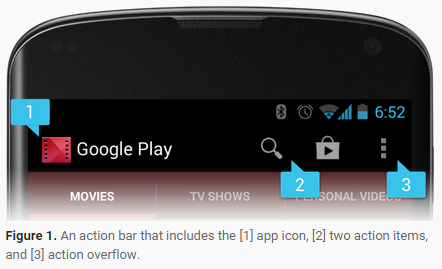
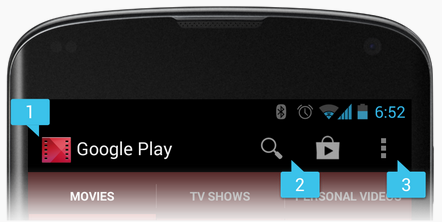
Finished converting code to HTML
Still need to paste it into Ses's template.  Also took the word "Figure
1" from being embedded into an image.

diff --git a/3. Hello, World.html b/3. Hello, World.html
@@ -1,0 +1,220 @@
+<h1>Hello, World!</h1>
+
+<img src="https://raw.githubusercontent.com/TeamNoteworthy/AndroidTutorialSite/master/images/03_Create_New_Project_01.png"/>
+<p>
+	First, start a new project from Android Studio&#39;s welcome screen by going to "Start a new Android Studio project."  Alternatively, you can go to <strong>File->New Project</strong> if you already have a project open.
+</p>
+<img src="https://raw.githubusercontent.com/TeamNoteworthy/AndroidTutorialSite/master/images/03_Create_New_Project_02.png"/>
+<p>
+	Next, you&#39;ll want to name your project and domain.  We&#39;ll call ours <code>AndroidNoteApp</code> and we&#39;ll call our company domain <code>androidnoteapp.gatech.edu</code>.  Normally, this would refer to a website that you own, but we&#39;re just making this up.  It&#39;s significant because the packages follow the naming convention of being in the reverse order of your domain. We had to hit the Edit button on the package name to make it <code>edu.gatech.androidnoteapp</code>.  When you&#39;re done, click <strong>Next</strong>.
+</p>
+<img src="https://raw.githubusercontent.com/TeamNoteworthy/AndroidTutorialSite/master/images/03_Create_New_Project_03.png"/>
+<p>
+	We&#39;re going to target our app to Android 5.0 (Lollipop). In choosing a recent API, you have the tradeoff of having access to the latest features but having a smaller audience on Google Play since there are significant numbers of users who use early platforms. If you want to support most platforms except for certain features, read more <a href=”https://developer.android.com/training/basics/supporting-devices/platforms.html”>here</a>. Click <strong>Next</strong>.
+</p>
+<img src="https://raw.githubusercontent.com/TeamNoteworthy/AndroidTutorialSite/master/images/03_Create_New_Project_04.png"/>
+<p>
+	We&#39;ll insert a blank Activity. Click <strong>Next</strong>.
+</p>
+<img src="https://raw.githubusercontent.com/TeamNoteworthy/AndroidTutorialSite/master/images/03_Create_New_Project_05.png"/>
+<p>
+	Making the Activity Name <code>NoteListActivity</code> should auto-populate the other fields to the above values. This Activity will serve as the list of notes to edit in our final app. Click <strong>Finish</strong>.
+</p>
+<img src="https://raw.githubusercontent.com/TeamNoteworthy/AndroidTutorialSite/master/images/03_Create_New_Project_06.png"/>
+<p>
+	When Android Studio is ready to let you see your project, upon selecting the Design tab under the file <code>activity_note_list.xml</code>, you should see a screen layout with the text “Hello, World!”  In this view, you can drag and drop items onto the <code>Activity</code>&#39;s layout and modify the value of various <code>Views</code>. We&#39;re going to look at the Text tab later so you have an idea of how to work on the manual side of layout design.
+</p>
+
+
+<h3>Adjust Manifest</h3>
+
+<p>
+	Let&#39;s look at the application&#39;s Manifest file. On the Project panel, expand the <code>manifests</code> folder and select <code>AndroidManifest.xml</code>.
+</p>
+<img src="https://raw.githubusercontent.com/TeamNoteworthy/AndroidTutorialSite/master/images/03_Create_New_Project_07.png"/>
+<p>
+	This is the Manifest file for the entire application.  The first line defines that the file uses an XML layout.  The second line defines the namespace with <code>xmlns:android</code> (similar to the C++ concept of namespaces--it prevents variable name collisions).  The value of this attribute points to some line of text that must differentiate the elements inside of it from other elements.  It doesn&#39;t have to be a real website--it doesn&#39;t have to be a website at all, but it typically points to some resource that explains something about the project.  The next line defines the package, which must be unique for all applications on a device, and therefore Google Play requires unique package names across all those applications submitted.
+</p>
+
+<p>
+	A quick tutorial on XML (eXtendable Markup Language).  It is a language that describes data and it consists of tags contained in angle brackets similar to HTML.  For each attribute, there is an identifier to mark the kind of attribute.  Before the first closing angle bracket, there can be an arbitrary number of attributes listed with the syntax <code>&lt;tag attribute0="value0" attribute1="value1"&gt;</code>.  Namespaces prevent collisions of similarly named variables across a large number of XML files that may be used for a similar purpose.  To access a namespace, use this syntax: <code>&lt;tag namespace:attribute="value"&gt;</code>.  All the variables you&#39;ll edit are in the <code>android:</code> namespace as defined in the second line. Tags (once the initial angle bracket has been closed) can be nested so that text or other attributes apply in a nested-tree fashion to the tags which contain them. Learn more about XML<a href=”http://www.w3schools.com/xml/default.asp”>here</a>.
+</p>
+
+<p>
+	The application tag defines the app&#39;s icon, its name, and its activities, among other things.  At least one Activity must have an Intent designating it as the <code>LAUNCHER</code> Activity so Android can put that Activity on the Home screen (you could potentially have multiple launching activities).  Making the intent <code>MAIN</code> indicates that the intent needs no further information in an intent other than that the Activity should  launch (as opposed to being prompted by another Activity).  Read more <a href=”http://developer.android.com/reference/android/content/Intent.html”>here</a>.
+</p>
+
+</p>
+	To jazz up our app a little, we&#39;re going to add a theme: <code>@android:style/Theme.Holo.Light.DarkActionBar</code>.  So within the Activity tag (the particular order of attributes isn&#39;t important, but we&#39;ll insert it in a line after the android:label attribute), add this:
+</p>
+<code>
+	android:theme="@android:style/Theme.Holo.Light.DarkActionBar"
+</code>
+<p>
+	with the tag closing afterwards.
+</p>
+
+<p>
+	The <code>@</code> symbol means that we&#39;re referring to a resource--if it is followed by <code>android:</code>, it&#39;s defined in the Android system&#39;s general resources.  Otherwise, it refers to a resource made in the particular project.
+</p>
+
+<p>
+	So now the manifest should look like this:
+</p>
+<code>
+<p>&lt;?xml version="1.0" encoding="utf-8"?&gt;<br />&lt;manifest xmlns:android="http://schemas.android.com/apk/res/android"<br /> package="edu.gatech.androidnoteapp" &gt;</p>
+<p style="padding-left: 60px;">&lt;application<br /> android:allowBackup="true"<br /> android:icon="@drawable/ic_launcher"<br /> android:label="@string/app_name"<br /> android:theme="@style/AppTheme" &gt;</p>
+<p style="padding-left: 60px;">&lt;activity</p>
+<p style="padding-left: 90px;">android:name=".NoteListActivity"<br /> android:label="@string/app_name"<br /> android:theme="@android:style/Theme.Holo.Light.DarkActionBar"&gt;</p>
+<p style="padding-left: 90px;">&lt;intent-filter&gt;</p>
+<p style="padding-left: 120px;">&lt;action android:name="android.intent.action.MAIN" /&gt;</p>
+<p style="padding-left: 120px;">&lt;category android:name="android.intent.category.LAUNCHER" /&gt;</p>
+<p style="padding-left: 90px;">&lt;/intent-filter&gt;</p>
+<p style="padding-left: 60px;">&lt;/activity&gt;</p>
+<p style="padding-left: 30px;">&lt;/application&gt;</p>
+<p>&lt;/manifest&gt;</p>
+</code>
+
+<h3>Adjust Strings</h3>
+
+<p>
+	Navigate in the Project panel to the folder <code>res/values/strings.xml</code>.
+</p>
+
+<img src="https://raw.githubusercontent.com/TeamNoteworthy/AndroidTutorialSite/master/images/03_Create_New_Project_01.png"/>
+
+<p>
+	The <code>strings.xml</code> file is where Android stores all its string resources.  It&#39;s good practice to keep all text that might possibly be updated in the future here as opposed to in a source file so you can maintain the files separately. We&#39;ll refer to the strings we make here in the code later with a tag such as <code>@string/name_of_string</code>.
+ </p>
+
+<p>
+	Let&#39;s change the title of the Activity as displayed on the screen by changing the <code>title_activity_note_list</code> string to read "Noteworthy".  So the line should read
+</p>
+<code><string name="title_activity_note_list">Noteworthy</string></code>
+<p>
+	Just to prove that this is where Android pulls the “Hello world” string, we&#39;ll add a comma and a smiley face so that it reads:
+</p>
+	<code>Hello, world! :)</code>
+
+<p>
+The final file looks like this.
+</p>
+<code>
+<p>&lt;?xml version="1.0" encoding="utf-8"?&gt;<br />&lt;resources&gt;</p>
+<p style="padding-left: 30px;">&lt;string name="app_name"&gt;Noteworthy&lt;/string&gt;<br /> &lt;string name="hello_world"&gt;Hello, world! :)&lt;/string&gt;<br /> &lt;string name="action_settings"&gt;Settings&lt;/string&gt;</p>
+<p>&lt;/resources&gt;</p>
+</code>
+
+<h3>Adjust Layout</h3>
+<p>
+	Now navigate back to the code that&#39;s already open in a tab: <code>activity_note_list.xml</code>.
+</p>
+
+<img src="https://raw.githubusercontent.com/TeamNoteworthy/AndroidTutorialSite/master/images/03_Create_New_Project_08.png"/>
+
+<p>
+	This file is a description for how the screen will be laid out.  Android separates the layout from the code in order to avoid the clunky GUI code that is found in Java Swing (and to make debugging easier).  Thus, you can use the drag-and-drop editor (the Design tab on the bottom of the pane) to modify the layout, but for now we&#39;ll show you the manual way. However, for the sake of being able to edit layout at runtime, Android does allow for adding and modifying layout in the code.
+</p>
+
+<p>
+	Notice the Design and Text tabs at the bottom of the edit pane, which allow you to switch between the two ways of editing the same file.
+</p>
+
+<p>
+	In the Text editor, at the top you&#39;ll see a few lines describing how the layout is to be padded. Right now, we&#39;re going to modify the <code>layout_width</code> and <code>layout_height</code> attributes of the <code>TextView</code> tag slightly.  Change the value of those attributes from <code>wrap_content</code> to <code>match_parent</code>. While <code>wrap_content</code> tells that UI object to take up as much space as its content needs, <code>match_parent</code> tell the UI object to take up as much space as the parent will allow. With a little adjusting whitespace (which XML ignores), the resulting XML file should look like this.
+</p>
+ 
+<code>
+<p>&lt;RelativeLayout xmlns:android="http://schemas.android.com/apk/res/android"</p>
+<p style="padding-left: 30px;">xmlns:tools="http://schemas.android.com/tools" android:layout_width="match_parent"<br />android:layout_height="match_parent" android:paddingLeft="@dimen/activity_horizontal_margin"<br />android:paddingRight="@dimen/activity_horizontal_margin"<br />android:paddingTop="@dimen/activity_vertical_margin"<br />android:paddingBottom="@dimen/activity_vertical_margin" tools:context=".NoteListActivity"&gt;</p>
+<p style="padding-left: 30px;">&lt;TextView android:text="@string/hello_world"</p>
+<p style="padding-left: 60px;">android:layout_width="match_parent"<br /> android:layout_height="match_parent" /&gt;</p>
+<p>&lt;/RelativeLayout&gt;</p></code>
+
+<p>
+	Read more about layout <a href=”http://developer.android.com/guide/topics/ui/declaring-layout.html”>here</a>.
+</p>
+
+
+<h3>NoteListActivity</h3>
+
+<p>
+	<code>NoteListActivity</code> is found in the Java folder. There&#39;s a series of folders under it for each sub-domain in your company&#39;s domain--that&#39;s just a Java convention.
+</p>
+
+<p>
+	The class imports a few necessary Android clases, then declares the class and extends <code>ActionBarActivity</code>. The base class all Activities need to extend is (*drum roll*) <code>Activity</code>, but there are various specialized Activities for various Activity templates. Since the <code>Theme</code> we are using is not supported by <code>ActionBarActivity</code>, we&#39;re going to downgrade to just <code>Activity</code>.  When that results in an error from not having the class imported, click on the word <code>Activity</code> and press <code>ALT + Enter</code>. A dialog will pop up asking you how to automatically fix the problem. The first way, by importing the class, is what we want, so just press Enter and it will be done. You can also remove the import line for <code>android.support.v7.app.ActionBarActivity</code>.
+</p>
+
+<p>
+	From Android&#39;s <a href=”http://developer.android.com/guide/topics/ui/actionbar.html”>website</a>, this is an <code>ActionBar</code>.
+</p>
+<img src="https://raw.githubusercontent.com/TeamNoteworthy/AndroidTutorialSite/master/images/03_Action_Bar.png"/>
+<p>
+	Nothing too exciting, but we&#39;ll use it later on.
+</p>
+<p>
+	The <code>@Override</code> line is a directive to the compiler to let it know that the next line will override a method previously defined by one of the parent classes.
+</p>
+<p>
+	The <code>onCreate()</code> method responds to what happens when the app first appears. The line
+</p>
+	<code>super.onCreate(savedInstanceState);</code>
+<p>
+	is merely Android&#39;s way of restoring some metadata about the state of the GUI from the last time the app opened. For now, we don&#39;t need to know its details.
+</p>
+
+<p>
+	<code>setContentView(R.layout.activity_note_list)</code> tells the compiler to define how the app looks based on the XML layout as defined by <code>activity_note_list.xml</code> (the resource within the <code>layout</code> folder).
+</p>
+
+<p>
+	The <code>createOptionMenu()</code> method determines how the menu that comes forth from the  button when it is pressed. <code>MenuInflater</code> is an XML parser that parses the XML file found at <code>R.menu.menu_note_list.xml</code>. We&#39;ll go over that in more detail when we edit the <strong>Options</strong> menu.
+</p>
+<p>
+	Finally, <code>onOptionsItemSelected()</code> determines how to react when the user selects one of the options in the <strong>Option</strong> menu.  It usually involves a large switch statement to determine which menu item has been pressed, and then reacts accordingly. Right now, it takes no action--it merely returns true (meaning no errors were incurred) without taking any action.
+</p>
+<p>
+The finished file should look like this:
+</p>
+<code>
+<p>package edu.gatech.androidnoteapp;</p>
+<p>import android.app.Activity;<br />import android.os.Bundle;<br />import android.view.Menu;<br />import android.view.MenuItem;</p>
+<p><br />public class NoteListActivity extends Activity {</p>
+<p style="padding-left: 30px;">@Override<br /> protected void onCreate(Bundle savedInstanceState) {</p>
+<p style="padding-left: 60px;">super.onCreate(savedInstanceState);<br /> setContentView(R.layout.activity_note_list);</p>
+<p style="padding-left: 30px;">}</p>
+<p style="padding-left: 30px;"><br /> @Override<br /> public boolean onCreateOptionsMenu(Menu menu) {</p>
+<p style="padding-left: 60px;">// Inflate the menu; this adds items to the action bar if it is present.<br /> getMenuInflater().inflate(R.menu.menu_note_list, menu);<br /> return true;</p>
+<p style="padding-left: 30px;">}</p>
+<p style="padding-left: 30px;">@Override<br /> public boolean onOptionsItemSelected(MenuItem item) {</p>
+<p style="padding-left: 60px;">// Handle action bar item clicks here. The action bar will<br /> // automatically handle clicks on the Home/Up button, so long<br /> // as you specify a parent activity in AndroidManifest.xml.<br /> int id = item.getItemId();</p>
+<p style="padding-left: 60px;">//noinspection SimplifiableIfStatement<br /> if (id == R.id.action_settings) {</p>
+<p style="padding-left: 90px;">return true;</p>
+<p style="padding-left: 60px;">}</p>
+<p style="padding-left: 60px;">return super.onOptionsItemSelected(item);</p>
+<p style="padding-left: 30px;">}</p>
+<p>}</p>
+</code>
+
+<img src="https://raw.githubusercontent.com/TeamNoteworthy/AndroidTutorialSite/master/images/03_Compile_and_Run.png"/>
+
+<p>
+	Now it&#39;s time to run the program! Select Build (first circled button), and when that&#39;s done (check the progress by the status bar at the bottom, as shown on the next figure), open up your emulator from the AVD (third circled button), and once you&#39;ve gotten the emulator running, hit <strong>Run</strong> (the green triangle or the second circled button). Note that it may take several minutes to get the emulator running depending on the configuration of your computer. Deploying to a real physical device is usually much faster.
+</p>
+
+<img src="https://raw.githubusercontent.com/TeamNoteworthy/AndroidTutorialSite/master/images/03_Compiling.png"/>
+
+<img src="https://raw.githubusercontent.com/TeamNoteworthy/AndroidTutorialSite/master/images/03_Choose_a_Device.png"/>
+
+<p>
+	If you run into this dialog after hitting the Run button, you&#39;re on the right track! Select <strong>OK</strong> after the running emulator is selected. When the install has completed as shown in the next figure, the application will launch automatically.
+</p>
+
+<img src="https://raw.githubusercontent.com/TeamNoteworthy/AndroidTutorialSite/master/images/03_Deployed_Successfully.png"/>
+
+<img src="https://raw.githubusercontent.com/TeamNoteworthy/AndroidTutorialSite/master/images/03_Hello_World_Result.png"/>
+
+<p>
+	Ta-da! We have our first, slightly-modified-from-the-box, Android app! And when you press the <strong>Menu</strong> button on the <code>ActionBar</code>, a dummy menu item pops up. Congratulations!
+</p>

diff --git a/1. Intro.html b/1. Intro.html
@@ -1,4 +1,4 @@
-1. Intro to Android--Dan
+<h1>Intro to Android</h1>
 
 <h3>History</h3>
 
@@ -80,29 +80,50 @@
 	<li><code>onSaveInstanceState()</code> and <code>onRestoreInstanceState()</code> are only for saving the state of the UI, but not persistent data. There are default versions already implemented that you can override.</li>
 </ul>
 
+<img src="https://raw.githubusercontent.com/TeamNoteworthy/AndroidTutorialSite/master/images/01_Life_Cycle_of_Android_App.png"/>
+
 <h3>Miscellaneous Items</h3>
 
 <p>The <code>NotificationManager</code> provides an API so that all apps can have a consistent presentation of notifications.</p>
 
 <p>Regarding buttons at the bottom of an Android screen: newer phones have the following virtual buttons at the bottom of most screens.</p>
-Return (go back to the previous screen)
-Home (return to the Home screen)
-Running Apps (quick application switcher and task manager)
+<ul>
+	<li>Return (go back to the previous screen)</li>
+	<li>Home (return to the Home screen)</li>
+	<li>Running Apps (quick application switcher and task manager)</li>
+</ul>
+<img src="https://raw.githubusercontent.com/TeamNoteworthy/AndroidTutorialSite/master/images/01_New_Android_Buttons.png"/>
+<p>
+	Buttons on newer devices (<a href=”http://www.geek.com/mobile/android-4-0-soft-buttons-vs-software-buttons-1484277/”>taken from here</a>).
+</p>
 
-Buttons on newer devices (<a href=”http://www.geek.com/mobile/android-4-0-soft-buttons-vs-software-buttons-1484277/”>taken from here</a>).
+<p>
+	On older devices, you&#39;ll find more fixed, dedicated buttons for the following functions.
+</p>
+<ul>
+	<li>Return</li>
+	<li>Menu (for a menu specific to each app)</li>
+	<li>Search (searching the entire Android device and the web, though the 	extent of the search can be configured)</li>
+	<li>Home</li>
+</ul>
 
-On older devices, you&#39;ll find more fixed, dedicated buttons for the following functions.
-Return
-Menu (for a menu specific to each app)
-Search (searching the entire Android device and the web, though the extent of the search can be configured)
-Home
+<img src="https://raw.githubusercontent.com/TeamNoteworthy/AndroidTutorialSite/master/images/01_Old_Android_Buttons.png"/>
+<p>
+	Buttons on older devices (<a href=”http://www.geek.com/mobile/android-4-0-soft-buttons-vs-software-buttons-1484277/”>taken from here</a>).
+</p>
 
-Buttons on older devices (<a href=”http://www.geek.com/mobile/android-4-0-soft-buttons-vs-software-buttons-1484277/”>taken from here</a>).
+<p>
+	Both new and old phones also have a power button and a button to increase and decrease volume.  In the past, you would have to implement the functionality of the Menu button, but now you don&#39;t have to worry about it.
+</p>
 
-Both new and old phones also have a power button and a button to increase and decrease volume.  In the past, you would have to implement the functionality of the Menu button, but now you don&#39;t have to worry about it.
+<p>
+	A note on <a href=”http://developer.android.com/guide/practices/compatibility.html”>compatibility</a> amidst various Android devices: it&#39;s best to have different configurations (layout and <a href=”http://developer.android.com/guide/topics/resources/overview.html”>resources</a> such as media files) for different screen sizes.  Static strings and images should be separate from the code (in the resources folder) so you can maintain them separately and facilitate accommodation of various devices.  It&#39;s also notable that some devices have limited features (e.g. not all devices have GPS), so you must define the necessary features and the minimum platform required (version of Android) in the <a href=”http://developer.android.com/guide/practices/compatibility.html#Features”><code>Manifest</code> file</a>.
+</p>
 
-A note on <a href=”http://developer.android.com/guide/practices/compatibility.html”>compatibility</a> amidst various Android devices: it&#39;s best to have different configurations (layout and <a href=”http://developer.android.com/guide/topics/resources/overview.html”>resources</a> such as media files) for different screen sizes.  Static strings and images should be separate from the code (in the resources folder) so you can maintain them separately and facilitate accommodation of various devices.  It&#39;s also notable that some devices have limited features (e.g. not all devices have GPS), so you must define the necessary features and the minimum platform required (version of Android) in the <a href=”http://developer.android.com/guide/practices/compatibility.html#Features”><code>Manifest</code> file</a>.
+<p>
+	There are also a variety of platform versions for Android--it&#39;s ideal to pick the one that has the lowest functionality you need for your app.  If you want to support most platforms and only disable particular features on unsupported platforms, see this <a href=”https://developer.android.com/training/basics/supporting-devices/platforms.html”>article</a>.
+</p>
 
-There are also a variety of platform versions for Android--it&#39;s ideal to pick the one that has the lowest functionality you need for your app.  If you want to support most platforms and only disable particular features on unsupported platforms, see this <a href=”https://developer.android.com/training/basics/supporting-devices/platforms.html”>article</a>.
-
-To read more on Android&#39;s architecture, see the 3-part YouTube series on <a href=””https://www.youtube.com/watch?v=Mm6Ju0xhUW8>Androidology</a>.  For background on everything else, see <a href=”http://developer.android.com/guide/components/fundamentals.html”>Android Fundamentals</a>.
+<p>
+	To read more on Android&#39;s architecture, see the 3-part YouTube series on <a href=””https://www.youtube.com/watch?v=Mm6Ju0xhUW8>Androidology</a>.  For background on everything else, see <a href=”http://developer.android.com/guide/components/fundamentals.html”>Android Fundamentals</a>.
+</p>

diff --git a/8. Prepare to Ship Code.html b/8. Prepare to Ship Code.html
@@ -1,0 +1,35 @@
+<h1>Prepare to Ship Code</h1>
+
+<p>
+	If you don&#39;t care about ever publishing apps, consider yourself done; this is a bonus section to give a high-level overview of how publishing apps to Google Play works.  I&#39;ll refer to caveats in passing, but for now, I&#39;ll assume we&#39;re dealing with the simplest case: a free app in which it doesn&#39;t matter which countries can access it.
+</p>
+
+<p>
+	First, you <i>must</i> test your app thoroughly on every kind of device you&#39;re targeting--tablets, phones with a range of screen sizes, etc.
+</p>
+<p>
+	For your own sake, JavaDoc your code so you can more easily remember it&#39;s functionality later. Self-documenting code is very rare--especially 3 months after you&#39;ve touched it.  Also, remove all log calls and remove <code>android:debuggable</code> as an attribute from the manifest.
+</p>
+<p>
+	Next, compile a release version of your code and test it on at least one target device.  Go to the Gradle panel on the right side of the IDE, under All Tasks expand <code>BuildSystemExample</code>, expand <code>:app</code> and double-click on <code>assembleRelease</code>.
+</p>
+<img src="https://raw.githubusercontent.com/TeamNoteworthy/AndroidTutorialSite/master/images/08_AssembleRelease.png"/>
+<p>
+	This produces a signed APK (application package) ready for distribution.  A digital signature is generated by using a hash function along with a key that your computer generates.  The signature ensures that you have indeed published the app and that no one has tampered with it, thus preventing the spread of malware since anyone can verify that the signature is valid but only you can generate it for a given input file.  For details on how to run this APK on devices, see this <a href=”http://developer.android.com/tools/building/building-studio.html#buildRelease”>link</a>.  By default, the APK is also run through ProGuard, a tool that compresses the APK and optimizes and obfuscates code so it&#39;s more difficult to reverse engineer and is more efficient.  ProGuard is only invoked in release mode so that it&#39;s easier to debug code in debug mode.
+</p>
+	
+<h3>Publishing</h3>
+
+<p>
+	All details regarding publishing can be configured in the <a href=”https://play.google.com/apps/publish/”>Google Play Developer Console</a>.  Google Play requires that you determine the app&#39;s maturity rating, the countries in which it should be distributed, its price (which can be varied by country), and with which devices and Android platform versions it is compatible.  If this is your first time publishing, you&#39;ll need to pay $25 to <a href=”https://support.google.com/googleplay/android-developer/answer/6112435?hl=en&ref_topic=3450769”>set up</a> a Google Play Developer Account--both for apps that are free and for those that have a price.  You will receive money from the sales of apps by your <a href=”https://support.google.com/googleplay/android-developer/answer/3092739?hl=en&ref_topic=3452890”>Google Wallet Merchant account</a>.  If you decide that the app will be free, you cannot change it to being priced later.  However, you can sell in-app products or subscriptions with Google Play&#39;s <a href=”http://developer.android.com/training/in-app-billing/index.html”>in-app billing service</a>.
+</p>
+
+<p>
+	It&#39;s advisable that any remote servers on which your app interacts are scalable to be able to handle the load of a large user base if your app were to become popular.  The use of expandable, pay-for-what-you-use cloud services are ideal for uncertainty in popularity; <a href=”http://aws.amazon.com/”>Amazon Web Services</a> is one example of such a resource.  To test it, it may be good to consider beta testing; you can <a href=”https://developer.android.com/distribute/googleplay/developer-console.html#alpha-beta”>manage</a> versions for testing and authorized testers from the Google Play Developer Console.  Finally, you ought to prepare promotional material--images, advertisements, and videos--to stir up hype for your app if that makes sense for the intent of the app.
+</p>
+<p>
+	Once the app is on the app store, in order to keep a happy user base, you must maintain the app.  List known bugs for the sake of transparency on your app&#39;s store listing page, and then <a href=”https://support.google.com/googleplay/android-developer/answer/113476?hl=en”>issue updates</a> to fix bugs and offer compatibility with new versions of Android.  As a final point of marketing, it&#39;s good to frequently check your ratings so you can be aware of trends in feedback from users.
+</p>
+<p>
+	For more info on shipping and publishing code, look at Google&#39;s checklist for <a href=”http://developer.android.com/distribute/tools/launch-checklist.html”>publishing</a>.
+</p>
